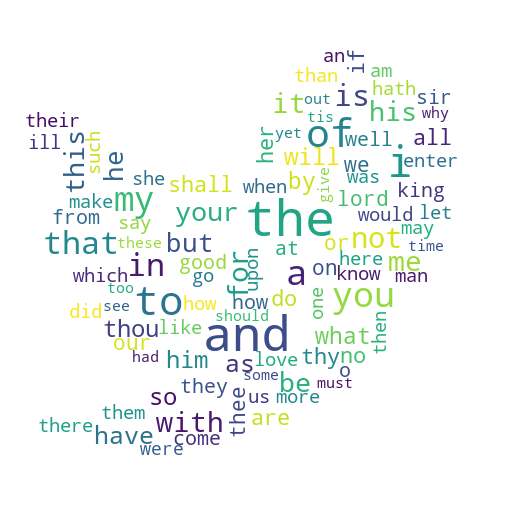
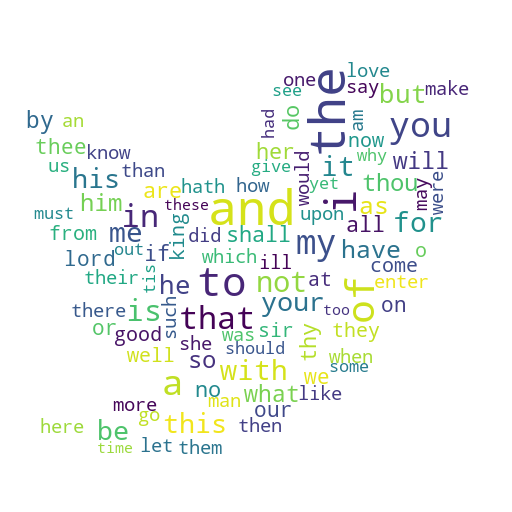
[update] remove wordcloud

Changed region(s): [[0.0312, 0.0938, 0.9375, 0.9062]]

diff --git a/templates/index.html b/templates/index.html
@@ -17,7 +17,9 @@
     <!-- Custom fonts -->
     <link href="vendor/fontawesome-free/css/all.min.css" rel="stylesheet">
     <link href="https://fonts.googleapis.com/css?family=Varela+Round" rel="stylesheet">
-    <link href="https://fonts.googleapis.com/css?family=Nunito:200,200i,300,300i,400,400i,600,600i,700,700i,800,800i,900,900i" rel="stylesheet">
+    <link
+        href="https://fonts.googleapis.com/css?family=Nunito:200,200i,300,300i,400,400i,600,600i,700,700i,800,800i,900,900i"
+        rel="stylesheet">
 
     <!-- Custom styles -->
     <link href="static/css/grayscale.min.css" rel="stylesheet">
@@ -44,13 +46,14 @@
         <div class="container d-flex h-100 align-items-center">
             <div class="mx-auto text-center">
                 <h1 class="mx-auto my-0 text-uppercase">TweetGen</h1>
-                <h2 class="text-white-50 mx-auto mt-2 mb-5">If this is working that means my dog hasn't chewed on the ethernet cable yet..</h2>
+                <h2 class="text-white-50 mx-auto mt-2 mb-5">If this is working that means my dog hasn't chewed on the
+                    ethernet cable yet..</h2>
                 <button id="generate" class="btn btn-primary js-scroll-trigger">Generate</button>
                 <form>
                     <input id='count' placeholder="Enter ammount" value="10" class="mx-auto mt-2 mb-5"></input>
                 </form>
                 <p id="holder" class="text-white-50 mx-auto mt-2 mb-5">{{sentence}}</p>
-                <img id="cloud" src="/static/img/better.png">
+                <!-- <img id="cloud" src="/static/img/better.png"> -->
             </div>
         </div>
     </header>

diff --git a/app.py b/app.py
@@ -2,20 +2,22 @@
 Flask Web Application
 """
 
-
+# Built-in Python Modules
 import sys
 import json
+from os import path
+from multiprocessing import Process, Manager, Pool
+# Enternal Python Modules
 import numpy as np
 import pandas as pd
-from os import path
 from PIL import Image
-from src.vose import *
-from src.dictogram import *
-from threading import Thread
-import matplotlib.pyplot as plt
-from multiprocessing import Process, Manager, Pool
 from wordcloud import WordCloud, STOPWORDS, ImageColorGenerator
 from flask import Flask, render_template, redirect, url_for, request, jsonify
+# Local Python Modules
+import matplotlib.pyplot as plt
+from src.vose import *
+from src.dictogram import *
+
 
 # name of application
 app = Flask(__name__)
@@ -55,6 +57,11 @@ def transform_format(val):
         return val
 
 
+def tweet(sentence):
+    # tweet functionality
+    pass
+
+
 @app.route('/', methods=['GET'])
 @app.route('/index', methods=['GET'])
 def index():
@@ -74,38 +81,38 @@ def index():
     # use the master histogram not the alias table
     master = generation('./corpus/thus.txt')
     # this will be the outline of our wordlcoud image
-    outline = np.array(Image.open("./static/img/bird.png"))
+    # outline = np.array(Image.open("./static/img/bird.png"))
     # convert image rgb bytes to an array
-    transformed = np.ndarray(
-        (outline.shape[0], outline.shape[1]), np.int32)
+    # transformed = np.ndarray(
+    #   (outline.shape[0], outline.shape[1]), np.int32)
     # transform image from inside out
-    for i in range(len(outline)):
-        transformed[i] = list(map(transform_format, outline[i]))
+    # for i in range(len(outline)):
+    #    transformed[i] = list(map(transform_format, outline[i]))
     # setup word cloud with a mask of our trasnformed image
-    wordcloud = WordCloud(max_font_size=50, max_words=100,
-                          background_color="white", mask=transformed)
+    # wordcloud = WordCloud(max_font_size=50, max_words=100,
+    #                      background_color = "white", mask = transformed)
     # generate the word cloud from histogram - master
-    wordcloud.generate_from_frequencies(frequencies=master)
+    # wordcloud.generate_from_frequencies(frequencies=master)
     # export word cloud to file
-    wordcloud.to_file("./static/img/cloud.png")
+    # wordcloud.to_file("./static/img/cloud.png")
     # open the newly generated image
-    img = Image.open('./static/img/cloud.png')
+    # img = Image.open('./static/img/cloud.png')
     # convert the image to have an alpha property
-    img = img.convert("RGBA")
+    # img = img.convert("RGBA")
     # grab the data of the image
-    datas = img.getdata()
+    # datas = img.getdata()
     # new data array
-    newData = []
+    # newData = []
     # convert all white space to be white with an alpha of 0
-    for item in datas:
-        if item[0] == 255 and item[1] == 255 and item[2] == 255:
-            newData.append((255, 255, 255, 0))
-        else:
-            newData.append(item)
+    # for item in datas:
+    #   if item[0] == 255 and item[1] == 255 and item[2] == 255:
+    #        newData.append((255, 255, 255, 0))
+    #    else:
+    #        newData.append(item)
     # put data into an array
-    img.putdata(newData)
+    # img.putdata(newData)
     # save our new image as png
-    img.save("./static/img/better.png", "PNG")
+    # img.save("./static/img/better.png", "PNG")
     # render the index page
     return render_template('index.html')
 
@@ -137,11 +144,6 @@ def generate():
         return jsonify({'sentence': sentence})
 
 
-class generation(object):
-    __init__(self, file):
-        self.file = file
-
-
 if __name__ == "__main__":
     os.environ['FLASK_ENV'] = 'development'  # set enviornment variable
-    app.run(debug=True, port=8080)  # start the flask application
+    app.run(debug=True, port=8000)  # start the flask application

diff --git a/src/dictogram.py b/src/dictogram.py
@@ -5,7 +5,6 @@ import time
 import logging
 from decimal import *
 from src.wrapper import time_it
-from threading import Threads
 from multiprocessing import Process
 from random import random, choice, uniform, randint
 
